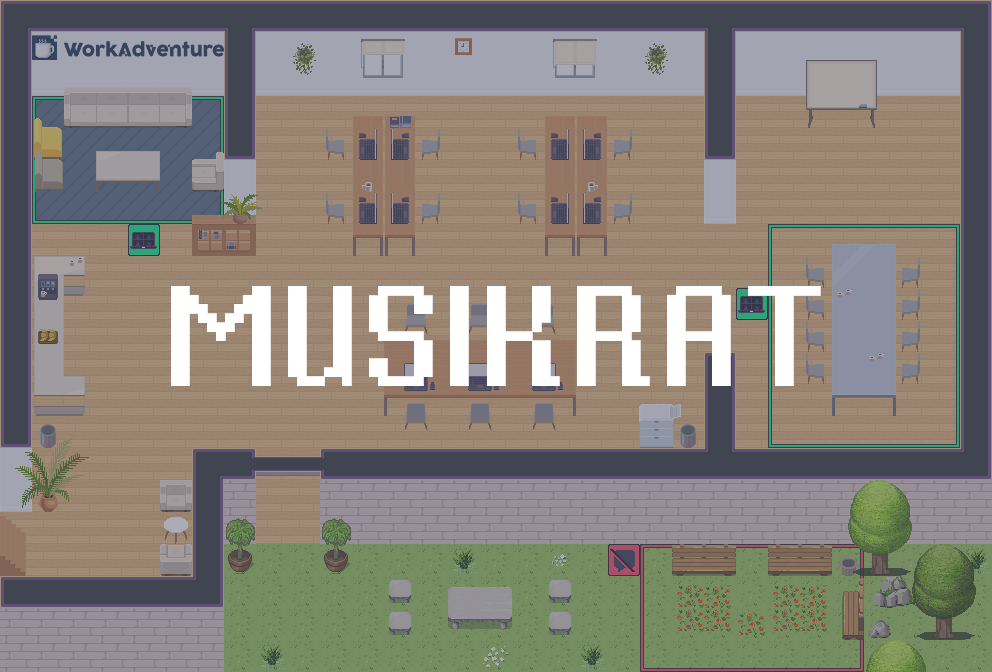
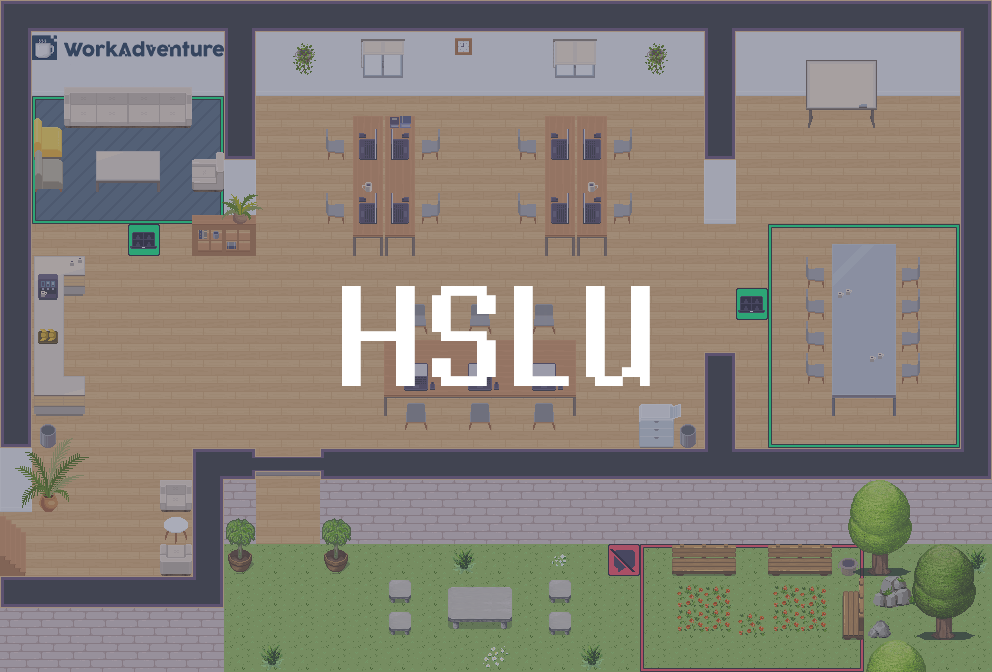
Deploying to gh-pages from master @ 918f5631661958f4c169c9e9b566c102cdb64449 🚀

Changed region(s): [[0.1562, 0.4062, 0.8438, 0.5938]]

diff --git a/index.html b/index.html
@@ -151,7 +151,7 @@
                 <h2>Test my map</h2>
                 <p><a id="testMapURL" href="#" class="url"></a></p>
                 <p class="tips">(In order to test another map, locate "map.tmj" at the end of the URL and replace it by another file name)</p>
-                <img src="./assets/map-bd27692e.png" alt="Map thumbnail" class="map">
+                <img src="./assets/map-ccf18ac7.png" alt="Map thumbnail" class="map">
                 <p><a id="testMapBtnURL" href="#" class="button">Test my map</a></p>
             </section>
 
